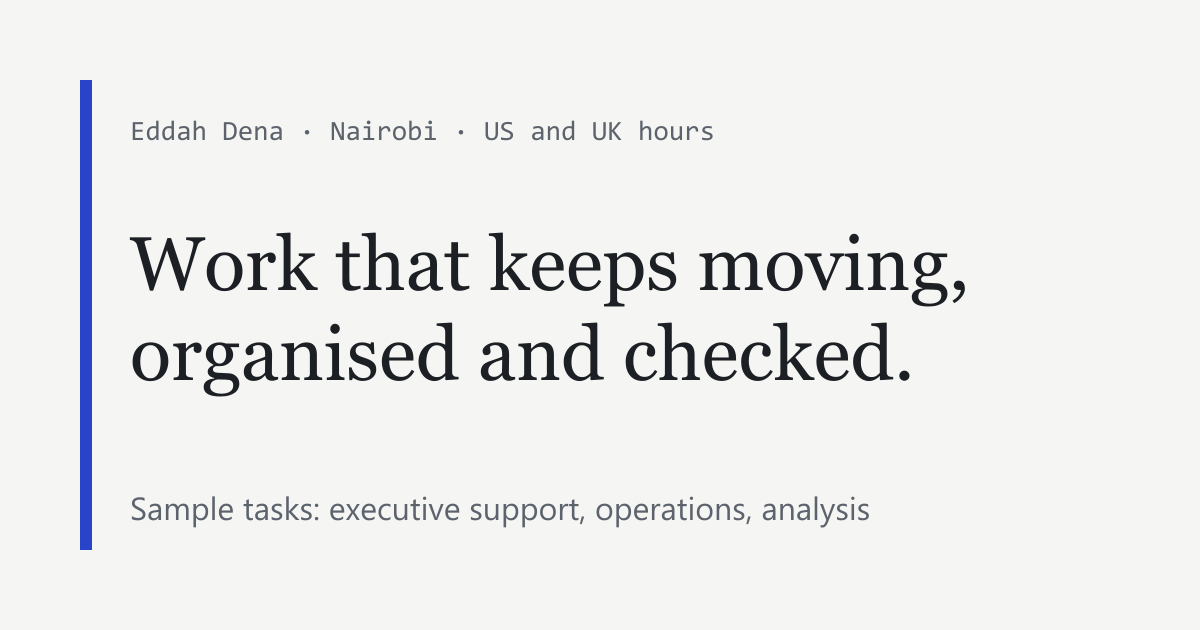
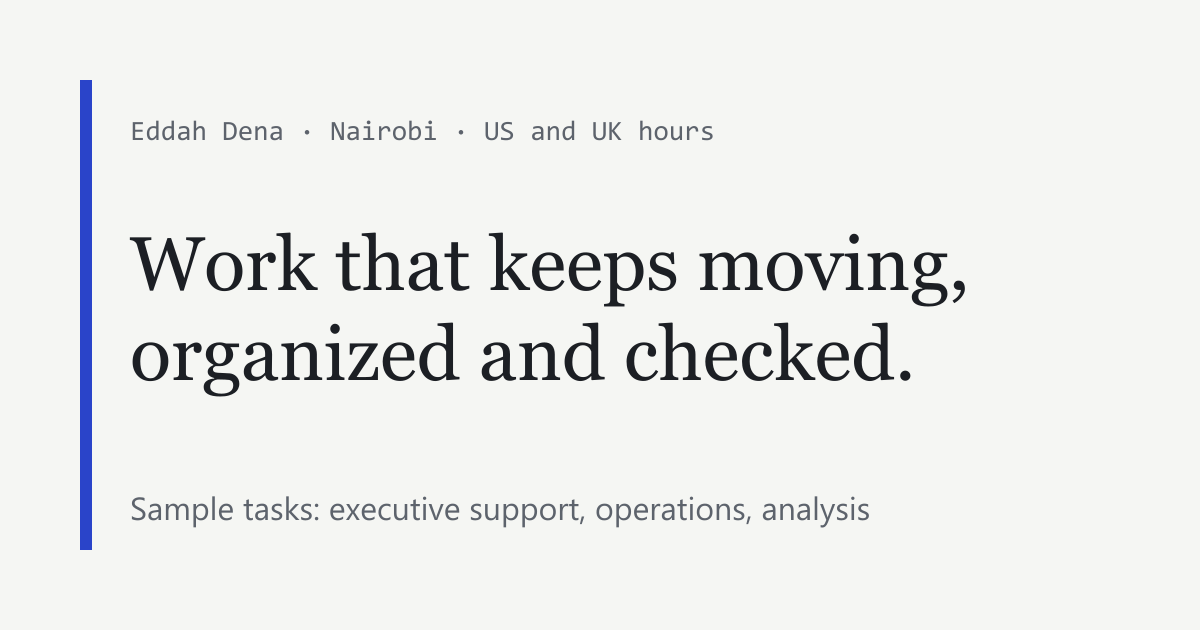
Prepare for Vercel, switch to US English, align data wording
- Read the site address from Vercel's production domain (or SITE_URL), so link
  previews and canonical links work on any domain; add vercel.json and a 404 page
- Use trailing-slash-free URLs so canonical links match the site's links
- Switch to US English: spelling, en-US, and month-first dates in task text
- Say "fictional scenario" and "synthetic data" together everywhere they appear
- Set the pre-send QA checklist time to 30 min
- Redraw the link-preview image; ignore .vercel/

Changed region(s): [[0.5242, 0.5127, 0.74, 0.6032], [0.4008, 0.5429, 0.4933, 0.6032], [0.2775, 0.5429, 0.37, 0.6032]]

diff --git a/src/data/tools.ts b/src/data/tools.ts
@@ -2,7 +2,7 @@
 //
 // status (edit these yourself):
 //   "daily"      used every day for years
-//   "practising" you have an account and are building something in it
+//   "practicing" you have an account and are building something in it
 //   "started"    first tutorial or free account only
 //   "TODO:"      not confirmed yet. The production build fails until it is replaced.
 //
@@ -10,7 +10,7 @@
 // published task lists it. Writing "used" by hand fails the build.
 
 export type ToolGroup = "Coordination" | "Operations" | "Analysis" | "AI";
-export type HandStatus = "daily" | "practising" | "started" | "TODO:";
+export type HandStatus = "daily" | "practicing" | "started" | "TODO:";
 
 export interface Tool {
   name: string;
@@ -22,8 +22,8 @@ export interface Tool {
 export const tools: Tool[] = [
   // Coordination
   { name: "Notion", group: "Coordination", status: "daily" },
-  { name: "Slack", group: "Coordination", status: "practising" },
-  { name: "Google Workspace", group: "Coordination", status: "practising" },
+  { name: "Slack", group: "Coordination", status: "practicing" },
+  { name: "Google Workspace", group: "Coordination", status: "practicing" },
   { name: "Microsoft 365", group: "Coordination", status: "daily" },
   { name: "Microsoft Teams", group: "Coordination", status: "daily" },
   { name: "Outlook", group: "Coordination", status: "daily" },
@@ -38,25 +38,25 @@ export const tools: Tool[] = [
   { name: "HubSpot", group: "Operations", status: "started" },
   { name: "Make", group: "Operations", status: "started" },
   { name: "Zapier", group: "Operations", status: "started" },
-  { name: "n8n", group: "Operations", status: "practising", note: "Social posting and task-move alerts by email and SMS" },
-  { name: "Power Automate", group: "Operations", status: "practising", note: "Daily Excel file backup" },
+  { name: "n8n", group: "Operations", status: "practicing", note: "Social posting and task-move alerts by email and SMS" },
+  { name: "Power Automate", group: "Operations", status: "practicing", note: "Daily Excel file backup" },
   { name: "SharePoint", group: "Operations", status: "daily" },
   { name: "Canva", group: "Operations", status: "daily" },
-  { name: "Google Forms", group: "Operations", status: "practising" },
+  { name: "Google Forms", group: "Operations", status: "practicing" },
 
   // Analysis
   { name: "Excel", group: "Analysis", status: "daily" },
-  { name: "SQL", group: "Analysis", status: "practising", note: "Querying large databases" },
+  { name: "SQL", group: "Analysis", status: "practicing", note: "Querying large databases" },
   { name: "Power BI", group: "Analysis", status: "daily" },
-  { name: "Python", group: "Analysis", status: "practising", note: "Cleaning and splitting documents" },
-  { name: "Google Sheets", group: "Analysis", status: "practising" },
+  { name: "Python", group: "Analysis", status: "practicing", note: "Cleaning and splitting documents" },
+  { name: "Google Sheets", group: "Analysis", status: "practicing" },
 
   // AI
   { name: "Claude", group: "AI", status: "daily" },
   { name: "ChatGPT", group: "AI", status: "daily" },
   { name: "Perplexity", group: "AI", status: "daily", note: "Research" },
-  { name: "NotebookLM", group: "AI", status: "practising", note: "Studying" },
-  { name: "Leonardo.ai", group: "AI", status: "practising", note: "Image generation" },
+  { name: "NotebookLM", group: "AI", status: "practicing", note: "Studying" },
+  { name: "Leonardo.ai", group: "AI", status: "practicing", note: "Image generation" },
 ];
 
 export const toolNames = new Set(tools.map((t) => t.name));

diff --git a/src/data/site.ts b/src/data/site.ts
@@ -6,7 +6,7 @@ export const tracks = [
   {
     slug: "executive-support",
     name: "Executive support",
-    heroLine: "Calendars, inboxes and meeting packs that stay organised and checked.",
+    heroLine: "Calendars, inboxes and meeting packs that stay organized and checked.",
   },
   {
     slug: "operations",
@@ -35,8 +35,8 @@ export const profile = {
   about: [
     "Hi, I'm Eddah! I'm based in Nairobi and work flexibly across US and UK time zones.",
     "For over a decade, I've helped teams make sense of messy financial data by turning it into clear reports and confident decisions.",
-    "Today, I bring that same clarity to my work as an Executive Assistant, Operations Coordinator, and Analyst. Give me a loose brief, and I'll hand back organised, thoroughly checked, and ready-to-use results.",
-    "To protect privacy, every sample here uses synthetic data.",
+    "Today, I bring that same clarity to my work as an Executive Assistant, Operations Coordinator, and Analyst. Give me a loose brief, and I'll hand back organized, thoroughly checked, and ready-to-use results.",
+    "To protect privacy, every sample here is a fictional scenario built on synthetic data.",
   ],
   email: "eddadena@nrold.com",
   linkedin: "https://www.linkedin.com/in/eddahdena",

diff --git a/src/lib/content.ts b/src/lib/content.ts
@@ -12,7 +12,7 @@ export interface ToolView extends Omit<Tool, "status"> {
 
 const MAX_FEATURED = 3;
 // Strongest first. "TODO:" sorts last.
-const statusOrder: ToolStatus[] = ["used", "daily", "practising", "started", "TODO:"];
+const statusOrder: ToolStatus[] = ["used", "daily", "practicing", "started", "TODO:"];
 
 // Drafts show while developing (npm run dev) but never in the production build.
 const showDrafts = import.meta.env.DEV;

diff --git a/src/styles/global.css b/src/styles/global.css
@@ -1,4 +1,4 @@
-/* Design tokens: change a colour or font here and it changes everywhere. */
+/* Design tokens: change a color or font here and it changes everywhere. */
 :root {
   --paper: #f5f6f3;
   --ink: #1c1f24;

diff --git a/src/content/tasks/vendor-spend-review.md b/src/content/tasks/vendor-spend-review.md
@@ -4,7 +4,7 @@ role: "Operations"
 alsoShows: ["Analyst"]
 skills: ["Spend analysis", "Billing-error detection", "Renewal planning", "Reconciliation"]
 summary: "A 25-tool subscription export reviewed for waste: $18,601 a year in savings and $2,707 in refunds, checked three ways."
-brief: "Dana wants us to find at least $12,000 a year in software and subscription savings without hurting peak season. Attached is the Q3 card and invoice export for every subscription, with the seat and usage counts IT pulled last week. Can you send me a one-page recommendation by Tuesday 20 Oct, 12:00 PM ET? Flag anything that looks like a billing error. We may be owed money."
+brief: "Dana wants us to find at least $12,000 a year in software and subscription savings without hurting peak season. Attached is the Q3 card and invoice export for every subscription, with the seat and usage counts IT pulled last week. Can you send me a one-page recommendation by Tuesday, Oct 20, 12:00 PM ET? Flag anything that looks like a billing error. We may be owed money."
 timeTaken: "90 min (time box)"
 tools: ["Excel"]
 aiTools: ["Claude"]
@@ -35,24 +35,24 @@ previews:
     caption: "The 12 data problems logged before any analysis"
     width: 1300
     height: 687
-dataSource: "Fictional scenario and data from a practice simulation (Kestrel Ridge Outdoor Co.). Vendor names are used only as generic examples and every price is invented. The work is mine."
+dataSource: "Fictional scenario from a practice simulation (Kestrel Ridge Outdoor Co.), with synthetic data for every input and output. Vendor names are used only as generic examples and every price is invented. The work is mine."
 date: 2026-10-17
 featured: false
 draft: false
 ---
 ## The details
 
-Send Marcus (COO) one page by Tuesday 20 Oct, 12:00 PM ET.
+Send Marcus (COO) one page by Tuesday, Oct 20, 12:00 PM ET.
 
-The constraints: no changes to Shopify, Klaviyo, Gorgias, ShipStation or HubSpot before 15 Jan 2027. Seat cuts apply from the next billing date, and annual plans can only be cut at renewal. Billing disputes go to the Controller, who sends them. Vendors are not contacted directly.
+The constraints: no changes to Shopify, Klaviyo, Gorgias, ShipStation or HubSpot before Jan 15, 2027. Seat cuts apply from the next billing date, and annual plans can only be cut at renewal. Billing disputes go to the Controller, who sends them. Vendors are not contacted directly.
 
 ## My approach
 
-1. Profiled the export first and logged 12 data problems before analysing anything.
-2. Worked out, for each tool, Q3 spend, monthly run-rate, cost per active user and unused seats. "Active" meant a login in the 30 days to 9 Oct.
+1. Profiled the export first and logged 12 data problems before analyzing anything.
+2. Worked out, for each tool, Q3 spend, monthly run-rate, cost per active user and unused seats. "Active" meant a login in the 30 days to Oct 9.
 3. Classified every tool as billing error, unused seats, duplicate tool, renewal risk or keep.
-4. Checked each cut against the peak-season freeze, the renewal dates and the 20 temps who start on 1 Nov.
-5. Annualised every saving, and showed the calculation next to it.
+4. Checked each cut against the peak-season freeze, the renewal dates and the 20 temps who start on Nov 1.
+5. Annualized every saving, and showed the calculation next to it.
 6. Reconciled the total three ways: the recommendations, the analysis column and the classifications all give $18,601.32.
 
 The billing errors were in the Notes column, not the numbers. Notion was still charging $120 a month after the vendor confirmed cancellation, LinkedIn charged $3,200 on a $1,600 plan, and Hootsuite charged monthly on a plan prepaid for the year. Klaviyo's September rise from $720 to $945 looked like an error but fits its list-size billing, so I flagged it to verify instead of disputing it.
@@ -62,10 +62,10 @@ The billing errors were in the Notes column, not the numbers. Notion was still c
 - **Memo to Marcus:** one page with the total, the top five actions with owners and dates, the billing errors and what I was not cutting.
 - **Analysis:** one row per tool, with metrics, classification and evidence.
 - **Savings summary:** recurring savings and one-off refunds kept separate, with the reconciliation.
-- **Renewal calendar:** the 90 days from 17 Oct to 14 Jan, with an action date before each renewal.
+- **Renewal calendar:** the 90 days from Oct 17 to Jan 14, with an action date before each renewal.
 - **Dispute drafts:** three drafts for the Controller to send.
 - **Log and QA:** a three-line log and the checklist result.
 
 ## What I'd do with more time
 
-Check the Hootsuite statements from February to June, which were not in the export, and confirm Gusto's billed headcount matches the 85 employees. I'd also revisit Slack after the 15 Jan freeze, where moving to Teams could save up to $2,835 a year more.
+Check the Hootsuite statements from February to June, which were not in the export, and confirm Gusto's billed headcount matches the 85 employees. I'd also revisit Slack after the Jan 15 freeze, where moving to Teams could save up to $2,835 a year more.

diff --git a/src/content/tasks/two-city-trip-plan.md b/src/content/tasks/two-city-trip-plan.md
@@ -3,8 +3,8 @@ title: "Plan a two-stop business trip within a $1,600 budget"
 role: "Executive support"
 alsoShows: []
 skills: ["Travel planning", "Budget trade-offs", "Time-zone planning", "Contingency planning"]
-summary: "Flights, hotels and rides checked against a traveller's rules, with a cost table, an itinerary and a fallback plan."
-brief: "Book whatever makes sense, under $1,600 all-in. I need to be back for my son's school event Friday 6 Nov at 6:00 PM in Charlotte. Send me the plan and anything I need to decide by Monday noon ET."
+summary: "Flights, hotels and rides checked against a traveler's rules, with a cost table, an itinerary and a fallback plan."
+brief: "Book whatever makes sense, under $1,600 all-in. I need to be back for my son's school event Friday, Nov 6 at 6:00 PM in Charlotte. Send me the plan and anything I need to decide by Monday noon ET."
 timeTaken: "75 min (time box)"
 tools: ["Excel", "Microsoft 365"]
 aiTools: ["Claude"]
@@ -16,7 +16,7 @@ deliverables:
   - label: "Decision log (PDF)"
     href: "/samples/two-city-trip-plan/trip-decision-log.pdf"
 cover: "/samples/two-city-trip-plan/previews/itinerary.webp"
-coverAlt: "Itinerary table for the recommended plan, from Monday 2 to Thursday 5 November, with local time, Eastern time, details and confirmation for each leg"
+coverAlt: "Itinerary table for the recommended plan, from Monday, November 2 to Thursday, November 5, with local time, Eastern time, details and confirmation for each leg"
 coverWidth: 1376
 coverHeight: 939
 previews:
@@ -30,24 +30,24 @@ previews:
     caption: "The summary for Dana: 150 words, two decisions"
     width: 1345
     height: 434
-dataSource: "Fictional scenario and data from a practice simulation (Kestrel Ridge Outdoor Co.). Flights, hotels and prices are fictional. The work is mine."
+dataSource: "Fictional scenario from a practice simulation (Kestrel Ridge Outdoor Co.), with synthetic data for every input and output. Flights, hotels and prices are fictional. The work is mine."
 date: 2026-10-17
 featured: false
 draft: false
 ---
 ## The details
 
-Two stops in the first week of November, leaving from and returning to Charlotte: a spring-assortment meeting with the buyer in Bellevue on Wed 4 Nov, 10:00–11:30 AM PT, and a peak-readiness walk-through at the Reno warehouse on Thu 5 Nov. Home by 6:00 PM on Fri 6 Nov.
+Two stops in the first week of November, leaving from and returning to Charlotte: a spring-assortment meeting with the buyer in Bellevue on Wed, Nov 4, 10:00–11:30 AM PT, and a peak-readiness walk-through at the Reno warehouse on Thu, Nov 5. Home by 6:00 PM on Fri, Nov 6.
 
-The traveller's rules: no flight before 7:00 AM, no overnight flights, aisle seat only, connections of 60 minutes or more, arrive the day before any external meeting, and a hotel within 15 minutes of the meeting when possible. Budget: $1,600 all-in. Decisions due by Monday noon ET.
+The traveler's rules: no flight before 7:00 AM, no overnight flights, aisle seat only, connections of 60 minutes or more, arrive the day before any external meeting, and a hotel within 15 minutes of the meeting when possible. Budget: $1,600 all-in. Decisions due by Monday noon ET.
 
 ## My approach
 
-1. Listed the traveller's rules and hard constraints before assessing any option.
+1. Listed the traveler's rules and hard constraints before assessing any option.
 2. Assessed every flight and hotel option against those rules and recorded the result in a decision log.
 3. Ran timing tests and checked for clashes with her existing commitments.
 4. Priced two plans on one cost table and checked the totals a second way. Plan B, recommended, comes to $1,466 and Plan A to $1,619.
-5. Wrote the itinerary, a contingency for the most fragile leg, two emails and a summary for the traveller (150 words, two decisions).
+5. Wrote the itinerary, a contingency for the most fragile leg, two emails and a summary for the traveler (150 words, two decisions).
 6. Ran a pre-send checklist on the workbook.
 
 ## What I delivered

diff --git a/src/content/tasks/leadership-minutes-and-actions.md b/src/content/tasks/leadership-minutes-and-actions.md
@@ -4,7 +4,7 @@ role: "Executive support"
 alsoShows: []
 skills: ["Minute-taking", "Action tracking", "Confidentiality", "Clear writing"]
 summary: "A garbled auto-transcript turned into one-page minutes, a dated action tracker and a draft email for approval."
-brief: "It is Mon 12 Oct 2026. The weekly leadership meeting ran 9:30–10:30 AM ET on Teams. My power went out at 9:40 AM, so I worked from the Teams auto-transcript, which had wrong speaker labels and misheard names."
+brief: "It is Mon, Oct 12, 2026. The weekly leadership meeting ran 9:30–10:30 AM ET on Teams. My power went out at 9:40 AM, so I worked from the Teams auto-transcript, which had wrong speaker labels and misheard names."
 timeTaken: "About 2 h"
 tools: ["Excel", "Microsoft 365"]
 aiTools: ["Claude"]
@@ -30,7 +30,7 @@ previews:
     caption: "Questions I could not settle myself, with a recommendation for each"
     width: 868
     height: 378
-dataSource: "Fictional scenario and data from a practice simulation (Kestrel Ridge Outdoor Co.). The work is mine."
+dataSource: "Fictional scenario from a practice simulation (Kestrel Ridge Outdoor Co.), with synthetic data for every input and output. The work is mine."
 date: 2026-10-16
 featured: false
 draft: false
@@ -39,7 +39,7 @@ draft: false
 
 Minutes on one page, decisions and actions only. Every action has one owner and an exact day and date. HR offer details stay with HR. All times ET. Nothing goes out until Dana approves.
 
-Deadline: minutes and action tracker to Dana by Monday 12 Oct, 2:00 PM ET (9:00 PM Nairobi).
+Deadline: minutes and action tracker to Dana by Monday, Oct 12, 2:00 PM ET (9:00 PM Nairobi).
 
 ## My approach
 
@@ -47,7 +47,7 @@ Deadline: minutes and action tracker to Dana by Monday 12 Oct, 2:00 PM ET (9:00 
 2. **Extract.** Pulled out the final decisions only, the actions (who, what, when) and the confidential items.
 3. **Reconcile.** Gave actions A-031 to A-035 a new status and added new actions A-036 to A-043.
 4. **Date.** Turned "Friday", "next week" and similar into a day and date, and flagged undated actions instead of guessing.
-5. **Communicate.** Wrote the one-page minutes, a draft email for Dana, the Monday 19 Oct agenda and three questions for Dana.
+5. **Communicate.** Wrote the one-page minutes, a draft email for Dana, the Monday, Oct 19 agenda and three questions for Dana.
 
 The hardest call: the temp-staffing decision changed late, from 25 to 20 after Tom's Q3 cash point, and three speaker labels in the transcript were wrong.
 
@@ -56,7 +56,7 @@ The hardest call: the temp-staffing decision changed late, from 25 to 20 after T
 - **Action tracker:** all actions A-031 to A-043 with owner, exact due date, status and flags for Dana.
 - **Minutes:** one page of decisions and actions.
 - **Follow-up email:** a draft for Dana, not to be sent until approved.
-- **Next agenda:** the draft agenda for Monday 19 Oct.
+- **Next agenda:** the draft agenda for Monday, Oct 19.
 - **Questions for Dana:** the items I could not settle myself.
 
 ## What I'd do with more time

diff --git a/src/content/tasks/pre-send-qa-checklist.md b/src/content/tasks/pre-send-qa-checklist.md
@@ -5,7 +5,7 @@ alsoShows: ["Executive support"]
 skills: ["Process documentation", "Quality assurance", "Root-cause analysis"]
 summary: "A 12-check, 5-minute SOP built from the real mistakes in my first three practice samples, with a log to test it."
 brief: "After three practice samples, six major errors had reached the first review: a wrong meeting time, a summary twice its word limit, a false reason for a rejected option, an out-of-date action table, a placeholder left in, and a budget comparison over mismatched periods. Turn those into a checklist that runs in five minutes before anything is sent."
-timeTaken: "Not timed"
+timeTaken: "30 min"
 tools: ["Word"]
 aiTools: ["Claude"]
 aiNote: "Claude created the practice simulations and reviewed my output. The checks, the method and the results log are mine."
@@ -23,7 +23,7 @@ previews:
     caption: "How each check is done, and the real error behind each one"
     width: 900
     height: 1205
-dataSource: "Fictional scenarios from practice simulations (Kestrel Ridge Outdoor Co.). The errors are real mistakes from my own practice work."
+dataSource: "Fictional scenarios from practice simulations (Kestrel Ridge Outdoor Co.), with synthetic data for every input and output. The errors are real mistakes from my own practice work."
 date: 2026-10-16
 featured: false
 draft: false
@@ -48,7 +48,7 @@ The results log showed whether it worked. The first three samples had six major 
 - **The checklist:** 12 checks in six groups, with a five-minute time box.
 - **How I check:** the method and time for each group.
 - **Where each check came from:** the real error and the sample behind every check.
-- **Results log:** errors per sample, and whether the checklist was used. The PDF is the 16 October version. Later results are in the QA tabs of the trip plan and vendor review workbooks.
+- **Results log:** errors per sample, and whether the checklist was used. The PDF is the October 16 version. Later results are in the QA tabs of the trip plan and vendor review workbooks.
 
 ## What I'd do with more time
 

diff --git a/src/content/tasks/ceo-week-scheduling.md b/src/content/tasks/ceo-week-scheduling.md
@@ -2,7 +2,7 @@
 title: "Rebuild a CEO's week after nine conflicting requests"
 role: "Executive support"
 alsoShows: []
-skills: ["Calendar management", "Prioritisation", "Time zones", "Stakeholder messaging"]
+skills: ["Calendar management", "Prioritization", "Time zones", "Stakeholder messaging"]
 summary: "Nine requests, 18 clashes and a hard stop: a conflict log, a rebuilt week and the messages to send."
 brief: "It is Sat 3. Nine requests have landed for CEO Dana Whitfield's week of Mon 5. The board chair wants to move the Q3 board meeting to Wed 7, which knocks on to a VP interview, the sales pipeline review and Thursday's deep work."
 timeTaken: "2 h"
@@ -23,14 +23,14 @@ previews:
     caption: "The one short summary email to Dana, 186 words"
     width: 1064
     height: 663
-dataSource: "Fictional scenario and data from a practice simulation (Kestrel Ridge Outdoor Co.). The work is mine."
+dataSource: "Fictional scenario from a practice simulation (Kestrel Ridge Outdoor Co.), with synthetic data for every input and output. The work is mine."
 date: 2026-10-15
 featured: false
 draft: false
 ---
 ## The details
 
-Dana's standing rules: deep work, protected lunch, buffers after long meetings, a Thursday 4:45 PM hard stop, no COO 1:1 cancelled two weeks running, and vendors routed to Operations. External messages need her approval. She is flying 3:00–5:00 PM ET and wants one short summary.
+Dana's standing rules: deep work, protected lunch, buffers after long meetings, a Thursday 4:45 PM hard stop, no COO 1:1 canceled two weeks running, and vendors routed to Operations. External messages need her approval. She is flying 3:00–5:00 PM ET and wants one short summary.
 
 Deadlines: Kevin Cho (TrailMart, the number one account) locks his calendar at 8:00 PM ET today. Ellen Shaw needs the board answer by Monday 12:00 PM ET.
 

diff --git a/README.md b/README.md
@@ -1,6 +1,6 @@
 # Eddah Dena: portfolio
 
-A static Astro site of sample tasks (executive support, operations, analysis), each built on a fictional scenario with synthetic data.
+A static Astro site of sample tasks (executive support, operations, analysis). Each one is a fictional scenario built on synthetic data.
 
 ## Commands
 
@@ -20,4 +20,8 @@ A static Astro site of sample tasks (executive support, operations, analysis), e
 - `src/data/tools.ts`: tool stack and statuses. "Used" is worked out from published tasks.
 - `src/data/ai.ts`: the "How I use AI" section.
 - `public/samples/`: deliverables and preview images. Strip personal metadata before adding files.
-- `astro.config.mjs`: set `site` to the live web address. Link previews need it, and the build fails until it is set.
+- `astro.config.mjs`: the site address for link previews. On Vercel it is read from the production domain automatically; for a local build run `SITE_URL=https://your-domain npm run build`.
+
+## Deploying on Vercel
+
+Import the GitHub repo in Vercel. It detects Astro and uses `vercel.json` (build `npm run build`, output `dist`). Add the custom domain under Project → Settings → Domains, then redeploy so link previews use it.

diff --git a/src/content/log/2026-09-05-travel-and-calendar-management.md b/src/content/log/2026-09-05-travel-and-calendar-management.md
@@ -5,4 +5,4 @@ kind: "Learned"
 tools: ["Excel"]
 task: "ceo-week-scheduling"
 ---
-I practised calendar and travel management on two scenarios: a CEO's week rebuilt after nine conflicting requests, and a [two-stop business trip](/tasks/two-city-trip-plan) planned within a $1,600 budget. Both taught me the same thing: write down the person's rules first, then judge every option against them. That is how 18 calendar clashes became 14 documented decisions, and how the trip came in at $1,466 with a fallback plan ready. Next, I'll run my pre-send checklist before the first review, not after it.
+I practiced calendar and travel management on two scenarios: a CEO's week rebuilt after nine conflicting requests, and a [two-stop business trip](/tasks/two-city-trip-plan) planned within a $1,600 budget. Both taught me the same thing: write down the person's rules first, then judge every option against them. That is how 18 calendar clashes became 14 documented decisions, and how the trip came in at $1,466 with a fallback plan ready. Next, I'll run my pre-send checklist before the first review, not after it.

diff --git a/src/content/log/2026-10-20-built-this-portfolio.md b/src/content/log/2026-10-20-built-this-portfolio.md
@@ -4,4 +4,4 @@ title: "Built this portfolio to show my sample tasks"
 kind: "Built"
 tools: []
 ---
-I built this site to show my practice work as finished samples, each with the brief, my approach, the files and what I'd do differently. Every sample uses synthetic data, so nothing private goes online. The site refuses to publish if any placeholder text is left in, which is my pre-send checklist applied to the site itself. Next, I'll finish the draft tasks for operations and analysis.
+I built this site to show my practice work as finished samples, each with the brief, my approach, the files and what I'd do differently. Every sample is a fictional scenario built on synthetic data, so nothing private goes online. The site refuses to publish if any placeholder text is left in, which is my pre-send checklist applied to the site itself. Next, I'll finish the draft tasks for operations and analysis.
